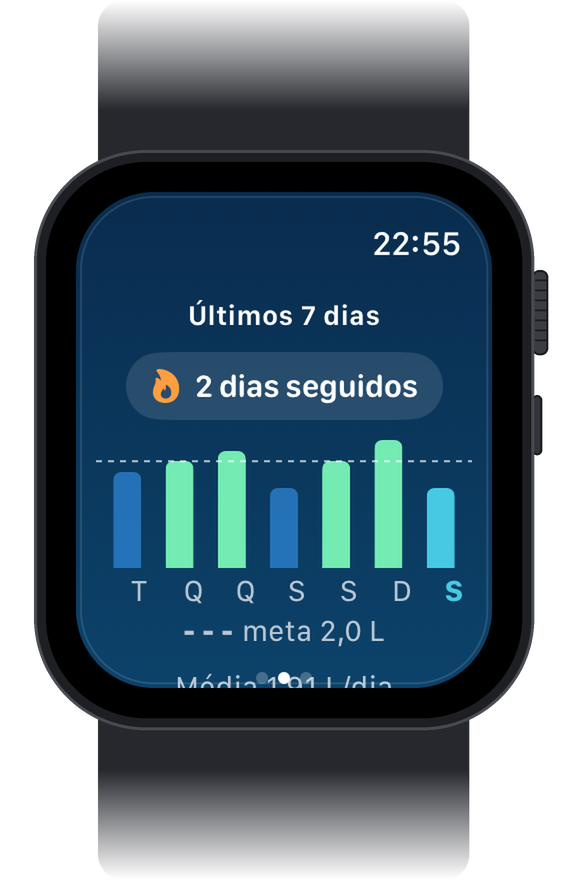
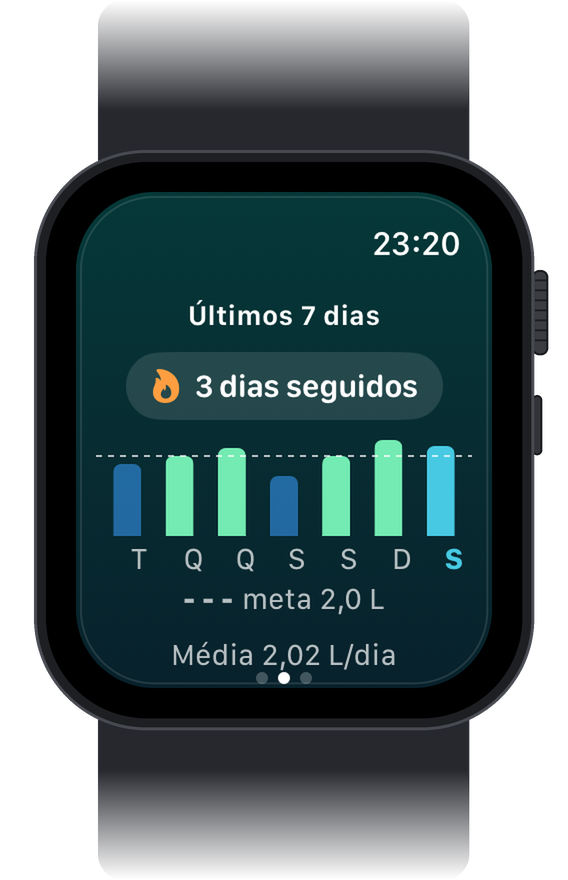
atualiza README e prints

diff --git a/README.md b/README.md
@@ -1,5 +1,7 @@
 # Water Tracker
 
+[![CI](https://github.com/dimitresouza12/water-tracker-watch/actions/workflows/ci.yml/badge.svg)](https://github.com/dimitresouza12/water-tracker-watch/actions/workflows/ci.yml)
+
 App de hidratação para Apple Watch, feito em Swift e SwiftUI. Comecei como projeto de estudo pra aprender o ecossistema da Apple e ainda estou mexendo nele, então tem coisa que falta (veja no fim).
 
 A ideia é registrar a água sem tirar o celular do bolso: um toque no pulso e pronto.
@@ -37,23 +39,41 @@ Os prints são do simulador. Os dias anteriores do histórico são dados de test
 - Swift Charts
 - UserNotifications
 - WatchKit (haptics)
+- `async/await` nas chamadas ao HealthKit e às notificações
 - UserDefaults pra persistência
+- XCTest e GitHub Actions
 
 ## Como está organizado
 
 ```
 WaterTracker Watch App/
-  WaterTrackerApp.swift   ponto de entrada e delegate das notificações
-  WaterStore.swift        estado, persistência, histórico, HealthKit e lembretes
-  ContentView.swift       tela principal e navegação entre as 3 páginas
-  BodyView.swift          corpo que enche e a onda
-  AmountPicker.swift      escolha da quantidade
-  HistoryView.swift       gráfico e sequência
-  SettingsView.swift      meta, peso e lembretes
-  Theme.swift             cores e estilos compartilhados
+  WaterTrackerApp.swift     ponto de entrada e delegate das notificações
+  WaterStore.swift          estado do app e persistência (UserDefaults)
+  HydrationLogic.swift      regras sem UI: meta sugerida, histórico, sequência e média
+  HealthKitService.swift    leitura e escrita de água no app Saúde
+  ReminderScheduler.swift   agendamento dos lembretes
+  ContentView.swift         tela principal e navegação entre as 3 páginas
+  BodyView.swift            corpo que enche e a onda
+  AmountPicker.swift        escolha da quantidade
+  HistoryView.swift         gráfico e sequência
+  SettingsView.swift        meta, peso e lembretes
+  Theme.swift               cores e estilos compartilhados
+Tests/HydrationCoreTests/   testes das regras
 ```
 
-O estado fica todo num `ObservableObject` (`WaterStore`) injetado como `environmentObject`, e as views só leem e chamam métodos dele.
+O `WaterStore` guarda o estado num `ObservableObject` injetado como `environmentObject`, e as views só leem e chamam métodos dele. As contas ficam em `Hydration` (um `enum` sem dependência de SwiftUI), e o que fala com o sistema fica em dois serviços pequenos, um pro Saúde e outro pros lembretes. Começou tudo dentro do `WaterStore`, e eu separei depois pra conseguir testar.
+
+## Testes
+
+As regras de `HydrationLogic.swift` têm testes e rodam sem simulador:
+
+```bash
+swift test
+```
+
+São 13 testes: meta sugerida (com mínimo e máximo), progresso, chave do dia, ordem dos últimos 7 dias, sequência de dias e média. O `Package.swift` aponta pro mesmo arquivo que o app compila, então não tem código duplicado. As telas, o HealthKit e as notificações ainda não têm teste.
+
+O GitHub Actions roda os testes e compila o app do relógio a cada push.
 
 ## Como rodar
 
@@ -69,9 +89,11 @@ Pra testar o HealthKit num aparelho de verdade, precisa trocar o bundle identifi
 ## O que ainda falta
 
 - Complicação no mostrador (a primeira versão tinha, ainda não trouxe pra essa)
-- Testes automatizados
 - Ícone do app
+- Testes das telas e do HealthKit
 - Publicar na App Store
+
+A lista com mais detalhe está nas [Issues](https://github.com/dimitresouza12/water-tracker-watch/issues).
 
 ## Autor
 
